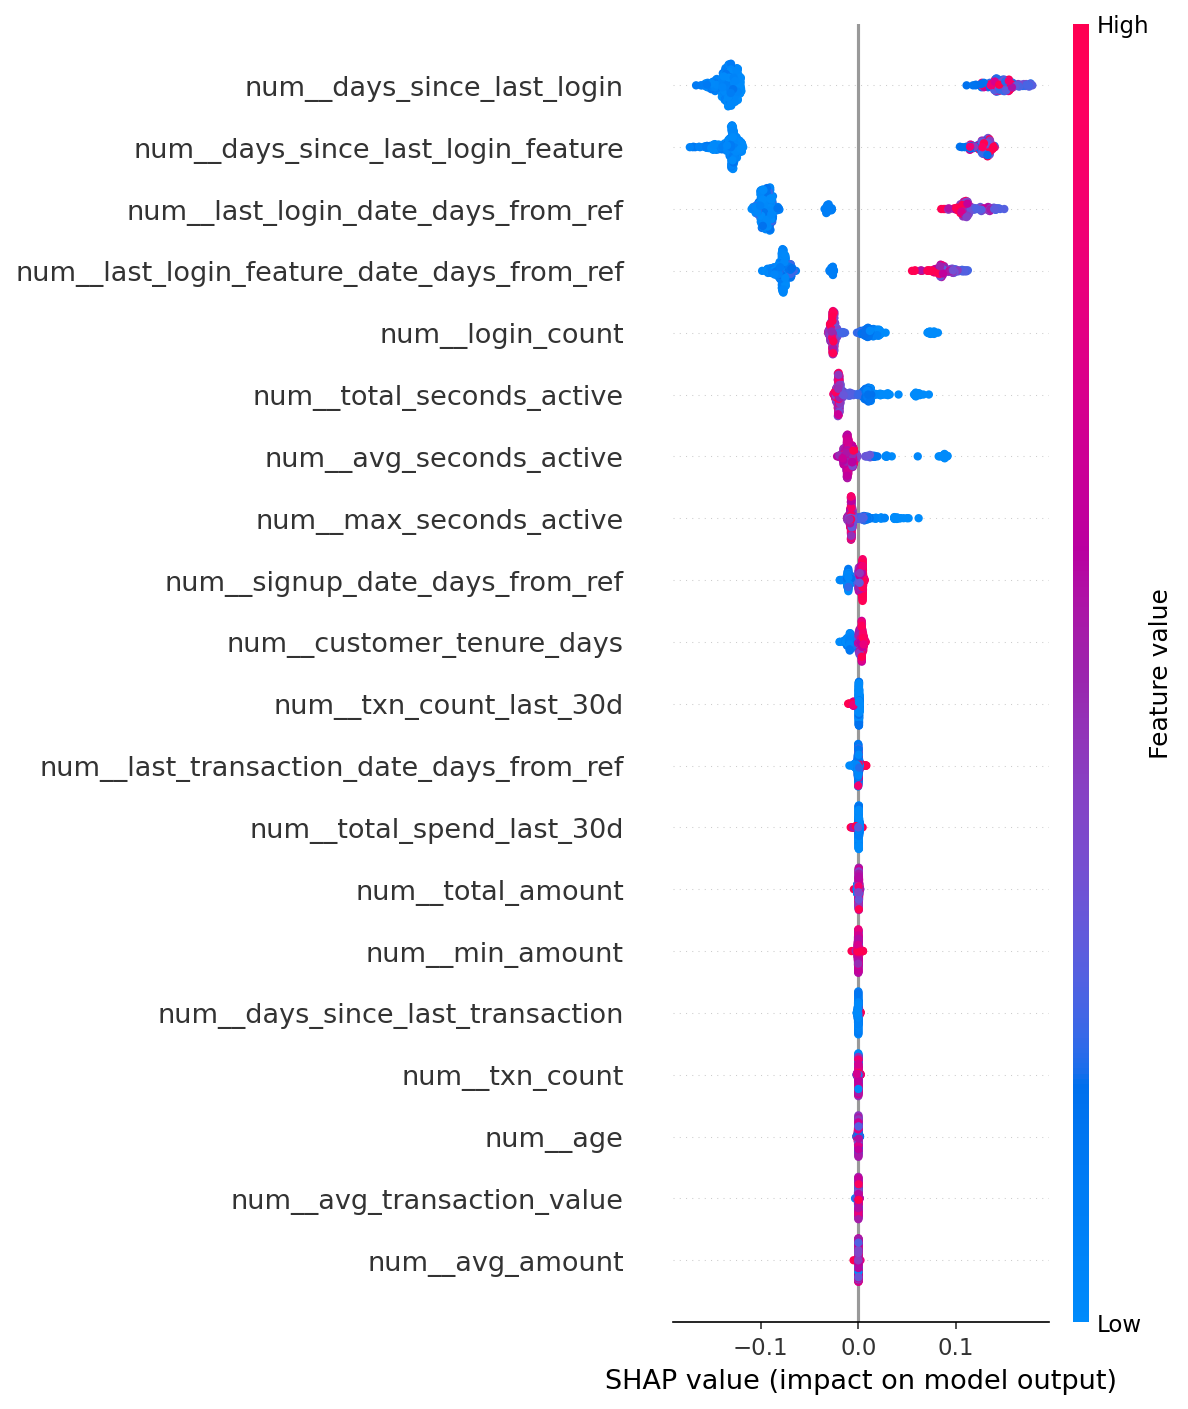
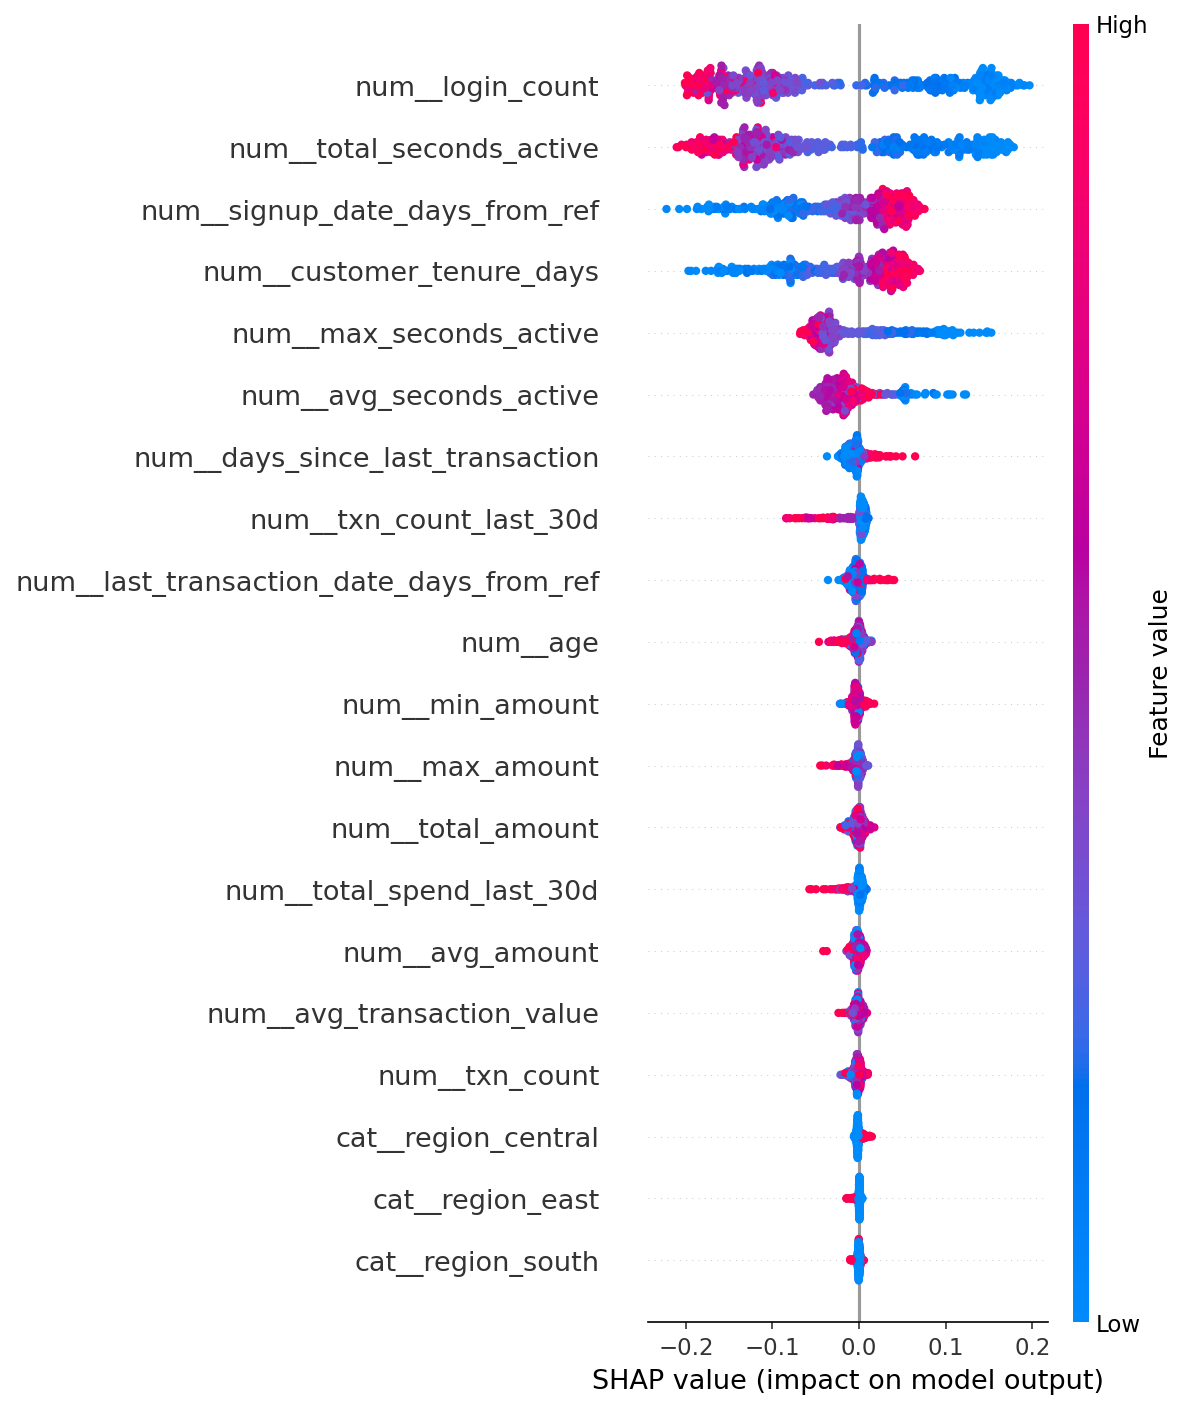
Remove label-proxy features and report realistic model metrics
Exclude direct login-recency proxy features from preprocessing to reduce leakage-like inflation, retrain and regenerate SHAP summary output, and update README performance metrics to reflect realistic holdout behavior.

diff --git a/src/pipeline.py b/src/pipeline.py
@@ -73,13 +73,9 @@ def build_preprocessing_pipeline(reference_date: str = "2024-12-31") -> Pipeline
         "total_seconds_active",
         "avg_seconds_active",
         "max_seconds_active",
-        "days_since_last_login_feature",
-        "days_since_last_login",
         "customer_tenure_days",
         "signup_date_days_from_ref",
         "last_transaction_date_days_from_ref",
-        "last_login_feature_date_days_from_ref",
-        "last_login_date_days_from_ref",
     ]
     categorical_features = ["region"]
 

diff --git a/README.md b/README.md
@@ -56,16 +56,24 @@ Pipeline flow:
 
 ---
 
-## Explainability Results
+## Model Interpretability & Results
+
+To ensure trust and transparency, SHAP (SHapley Additive exPlanations) values are calculated to explain key churn drivers.
 
 ### Global Model Behavior (SHAP Summary)
 
-![SHAP Summary Plot](images/shap_summary_test_set.png)
+![SHAP Summary Plot](reports/figures/shap_summary.png)
 
-Interpretation:
+*Analysis: The SHAP summary shows that recency and engagement-related signals are dominant predictors. Lower engagement and longer inactivity push predictions toward higher churn risk, which makes these features actionable for retention targeting.*
 
-- recency and activity-related features dominate churn signal
-- this supports business actionability: prioritize users with declining engagement patterns
+### Best Model Performance (RandomForest, holdout set)
+
+- Accuracy: `0.8460`
+- F1-Score: `0.7701`
+- ROC-AUC: `0.9113`
+
+These metrics are measured after removing direct label-proxy features from the training set,
+which makes evaluation meaningfully closer to real-world performance.
 
 ### Customer-Level Explanation (High-Risk Example)
 
